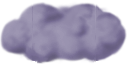
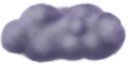
Implement storm cloud graphics.
Closes #405

Changed region(s): [[0.0625, 0.375, 0.9062, 1.0], [0.25, 0.2812, 0.4062, 0.4375], [0.7188, 0.0625, 0.75, 0.2188]]

diff --git a/src/object/thunderstorm.cpp b/src/object/thunderstorm.cpp
@@ -140,7 +140,18 @@ Thunderstorm::flash()
 void
 Thunderstorm::electrify()
 {
-  Sector::current()->add_object(std::make_shared<Electrifier>(TileChangeMap({{200, 1421}, {201, 1422}}), ELECTRIFY_TIME));
+  auto changing_tiles = TileChangeMap({
+    {200, 1421}, {201, 1422},
+    {3419, 3523}, {3420, 3524},
+    {3421, 3525}, {3422, 3526},
+    {3423, 3527}, {3424, 3528},
+    {3425, 3529}, {3426, 3530},
+    {3427, 3523}, {3428, 3524},
+    {3429, 3525}, {3430, 3526},
+    {3431, 3527}, {3432, 3528},
+    {3433, 3529}, {3434, 3530}
+  });
+  Sector::current()->add_object(std::make_shared<Electrifier>(changing_tiles, ELECTRIFY_TIME));
 }
 
 /* EOF */
